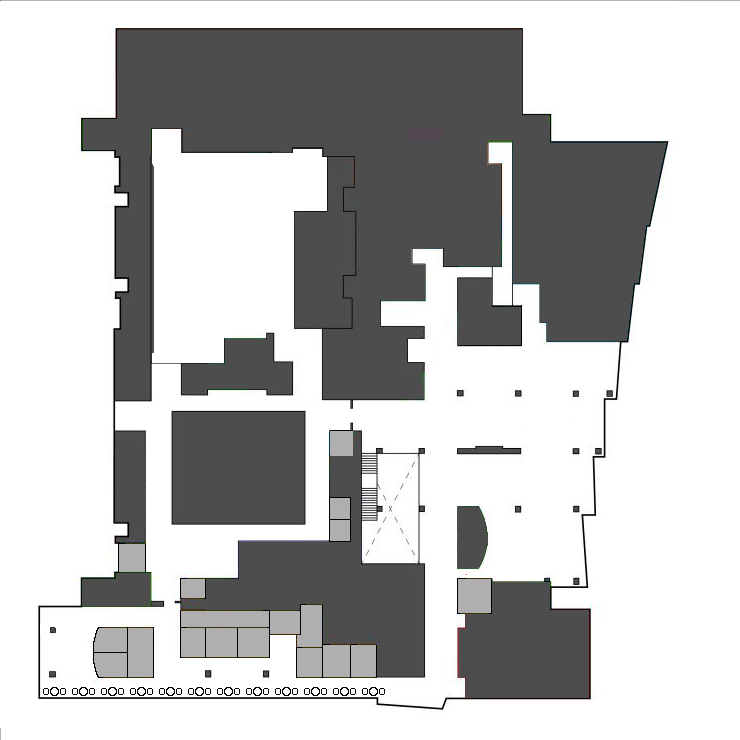
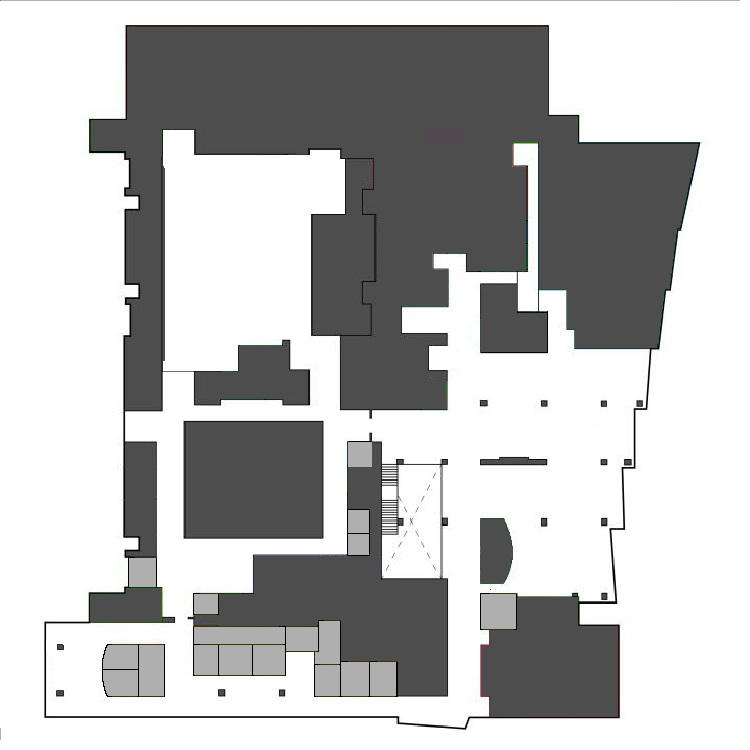
Basic Design Implementation
Updated the layout implementation for the GUI and added the JButton Implementation so that maps will be displayed for different levels

diff --git a/FLOSSDriver.java b/FLOSSDriver.java
@@ -15,6 +15,14 @@ import javax.swing.*;
 public class FLOSSDriver {
 
    public static StudySystemMap fenwickLibrary;
+   public static JPanel buttons;
+   public static JPanel sidePanel;
+   
+   
+   public static JPanel tableInformationPanel;
+   public static JPanel searchPanel;
+   public static JPanel profileInformationPanel;
+   
    public static JButton floor1;
    public static JButton floor2;
    public static JButton floor3;
@@ -23,33 +31,132 @@ public class FLOSSDriver {
    
    public static void main(String[]args) throws IOException {
       JFrame display = new JFrame("FLOSS");     //Create our JFrame
-      fenwickLibrary = new StudySystemMap();    //Initialize the shot fenwick library map
-      displayButtons();                         //Add display option buttons
       display.setSize(1000, 850);			      //Size of display window
       display.setLocation(300, 0);				   //Location of display window on the screen
       display.setResizable(false);              //Cannot change size of the screen
       display.setDefaultCloseOperation(JFrame.EXIT_ON_CLOSE);  //Exit when close out 
-      display.setContentPane(fenwickLibrary);                    //Set contentPanel to our board
-      display.setVisible(true);                                //Make the screen visible
+      
+      JPanel container = new JPanel();          //Establish the JPanel that will hold all our JPanel's
+      container.setLayout(null);                //Set the layout to null so we can set the bounds
+   
+      fenwickLibrary = new StudySystemMap();    //Initialize the interactive Fenwick library map
+      fenwickLibrary.setBounds(0, 0, 700, 700);  //Set the bounds for the interactive map
+      buttons = new JPanel();                      //Initialize the buttons listing all the options
+      buttons.setBounds(0, 700, 700, 120);         //Set the bounds for the interactive map
+      displayButtons();                            //Add all the buttons and options
+      sidePanel = new JPanel();                    //Initialize the side panel that shows all our options
+      sidePanel.setBounds(700, 0, 140, 120);       //Set the bounds for the interactive map
+      initializeSizePanels();
+      loadSidePanel(1);
+   
+      container.add(fenwickLibrary);
+      container.add(buttons);
+      container.add(sidePanel);
+      
+      display.setContentPane(container);
+      display.setVisible(true);
    }
    
    public static void displayButtons()
    {
-      fenwickLibrary.setLayout(null);
-      JButton floor1 = new JButton("1st Floor");
-      JButton floor2 = new JButton("2nd Floor");
-      JButton floor3 = new JButton("3rd Floor");
-      JButton search = new JButton("Search");
-      JButton profile = new JButton("My Profile");
-      floor1.setBounds(0, 700, 140, 100);
-      floor2.setBounds(140, 700, 140, 100);
-      floor3.setBounds(280, 700, 140, 100);
-      search.setBounds(420, 700, 140, 100);
-      profile.setBounds(560, 700, 140, 100);
-      fenwickLibrary.add(floor1);
-      fenwickLibrary.add(floor2);
-      fenwickLibrary.add(floor3);
-      fenwickLibrary.add(search);
-      fenwickLibrary.add(profile); 
+      buttons.setLayout(null);
+      floor1 = new JButton("1st Floor");   //Initialize the JButton
+      floor2 = new JButton("2nd Floor");   //Initialize the JButton
+      floor3 = new JButton("3rd Floor");   //Initialize the JButton
+      ImageIcon searchIcon = new ImageIcon("images/search_icon.png");    //Initialize the image to add to the JButton
+      ImageIcon profileIcon = new ImageIcon("images/profile_icon.png");  //Initialize the image to add to the JButton
+      search = new JButton(searchIcon);    //Add button to the JFrame
+      profile = new JButton(profileIcon);  //Add button to the JFrame
+      floor1.setBounds(0, 0, 140, 120);       //Set the bounds to the floor 1 button
+      floor2.setBounds(140, 0, 140, 120);     //Set the bounds to the floor 2 button
+      floor3.setBounds(280, 0, 140, 120);     //Set the bounds to the floor 3 button
+      search.setBounds(420, 0, 140, 120);     //Set the bounds to the search button
+      profile.setBounds(560, 0, 140, 120);    //Set the bounds to the profile button
+      floor1.addActionListener(
+         new ActionListener() {
+            public void actionPerformed(ActionEvent e) {
+               enableButtons();
+               floor1.setEnabled(false);
+               loadSidePanel(1);
+               fenwickLibrary.setFloorNumber(1);
+               fenwickLibrary.repaint();
+            } });   
+      floor2.addActionListener(
+         new ActionListener() {
+            public void actionPerformed(ActionEvent e) {
+               enableButtons();
+               floor2.setEnabled(false);
+               loadSidePanel(2);
+               fenwickLibrary.setFloorNumber(2);
+               fenwickLibrary.repaint();
+            } });    
+      floor3.addActionListener(
+         new ActionListener() {
+            public void actionPerformed(ActionEvent e) {
+               enableButtons();
+               floor3.setEnabled(false);
+               loadSidePanel(3);
+               fenwickLibrary.setFloorNumber(3);
+               fenwickLibrary.repaint();
+            } });  
+      search.addActionListener(
+         new ActionListener() {
+            public void actionPerformed(ActionEvent e) {
+               enableButtons();
+               search.setEnabled(false);
+               loadSidePanel(4);
+            } });  
+      profile.addActionListener(
+         new ActionListener() {
+            public void actionPerformed(ActionEvent e) {
+               enableButtons();
+               profile.setEnabled(false);
+               loadSidePanel(5);
+            } });  
+      buttons.add(floor1);      //Add button to the JFrame
+      buttons.add(floor2);      //Add button to the JFrame
+      buttons.add(floor3);      //Add button to the JFrame
+      buttons.add(search);      //Add button to the JFrame
+      buttons.add(profile);     //Add button to the JFrame
    }
+   
+   public static void loadSidePanel(int option) {
+      if(option == 1 || option == 2 || option == 3) {
+         sidePanel = tableInformationPanel;
+      }
+      else if(option == 4) {
+         sidePanel = searchPanel;
+      }
+      else {
+         sidePanel = profileInformationPanel;
+      }
+   }
+   
+   public static void enableButtons() {
+      floor1.setEnabled(true);
+      floor2.setEnabled(true);
+      floor3.setEnabled(true);
+      search.setEnabled(true);
+      profile.setEnabled(true);
+   }
+   
+   public static void initializeSizePanels() {
+      initializeInfoPanel();
+      initializeSearchPanel();
+      initializeProfilePanel();
+   }
+   
+   public static void initializeInfoPanel() {
+      tableInformationPanel = new JPanel();
+   }
+   
+   public static void initializeSearchPanel() {
+      searchPanel = new JPanel();
+   }
+   
+   public static void initializeProfilePanel() {
+      profileInformationPanel = new JPanel();
+   }
+   
+   
 }

diff --git a/StudySystemMap.java b/StudySystemMap.java
@@ -16,18 +16,34 @@ import java.io.*;
 public class StudySystemMap extends JPanel {
 
    private ImageIcon floor1 = new ImageIcon("Fenwick_Library_Maps/Floor1.png");
+   private ImageIcon floor2 = new ImageIcon("Fenwick_Library_Maps/Floor2.png");
+   private ImageIcon floor3 = new ImageIcon("Fenwick_Library_Maps/Floor3.png");
+   private ImageIcon searchIcon = new ImageIcon("search_icon.png");
+   private ImageIcon profileIcon = new ImageIcon("profile_icon.png");
+   private static int floorNumber;
 
    public StudySystemMap() {
+      floorNumber = 1;
+   }
    
+   public void setFloorNumber(int num) {
+      this.floorNumber = num;
    }
    
    public void paintComponent(Graphics g) {
       g.setColor(Color.red);     //Set the background color to no pieces as red
       super.paintComponent(g); 	//Call super method
-      paintBoard(g);
+      paintBoard(g, floorNumber);
    }
    
-   public void paintBoard(Graphics g) {
-      g.drawImage(floor1.getImage(), 0, 0, 700, 700, null);
+   public void paintBoard(Graphics g, int floor) {
+      if(floor == 1)
+         g.drawImage(floor1.getImage(), 0, 0, 700, 700, null);
+      else if(floor == 2)
+         g.drawImage(floor2.getImage(), 0, 0, 700, 700, null);
+      else if(floor == 3)
+         g.drawImage(floor3.getImage(), 0, 0, 700, 700, null);
+      else
+         g.drawImage(floor1.getImage(), 0, 0, 700, 700, null);
    }
 }
